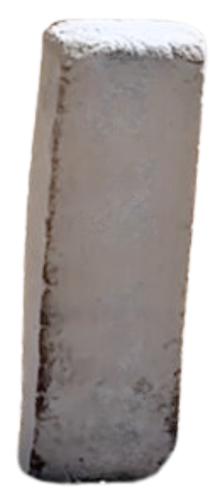
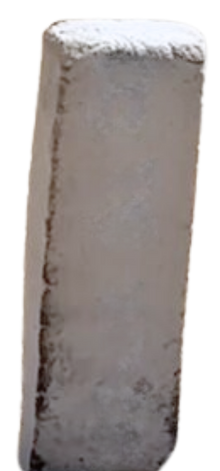
feat: Add Lucky Incense page and related incense state images.

diff --git a/src/features/incense/components/LuckyIncensePage.tsx b/src/features/incense/components/LuckyIncensePage.tsx
@@ -1344,7 +1344,7 @@ export function LuckyIncensePage() {
 
 									{/* ภาพกระถางธูปอยู่ใต้ธูป */}
 									<motion.div
-										className="absolute -bottom-[70px] left-1/2 transform -translate-x-1/2"
+										className="absolute -bottom-[168px] left-1/2 transform -translate-x-1/2"
 										style={{ zIndex: 8 }}
 										initial={{ opacity: 0 }}
 										animate={{ opacity: 1 }}
@@ -1353,7 +1353,7 @@ export function LuckyIncensePage() {
 										<img
 											src="/image/Incense-burner.png"
 											alt="กระถางธูป"
-											className="w-[333px] h-auto object-contain drop-shadow-lg"
+											className="w-[350px] max-w-none h-auto object-contain drop-shadow-lg"
 										/>
 									</motion.div>
 								</div>
